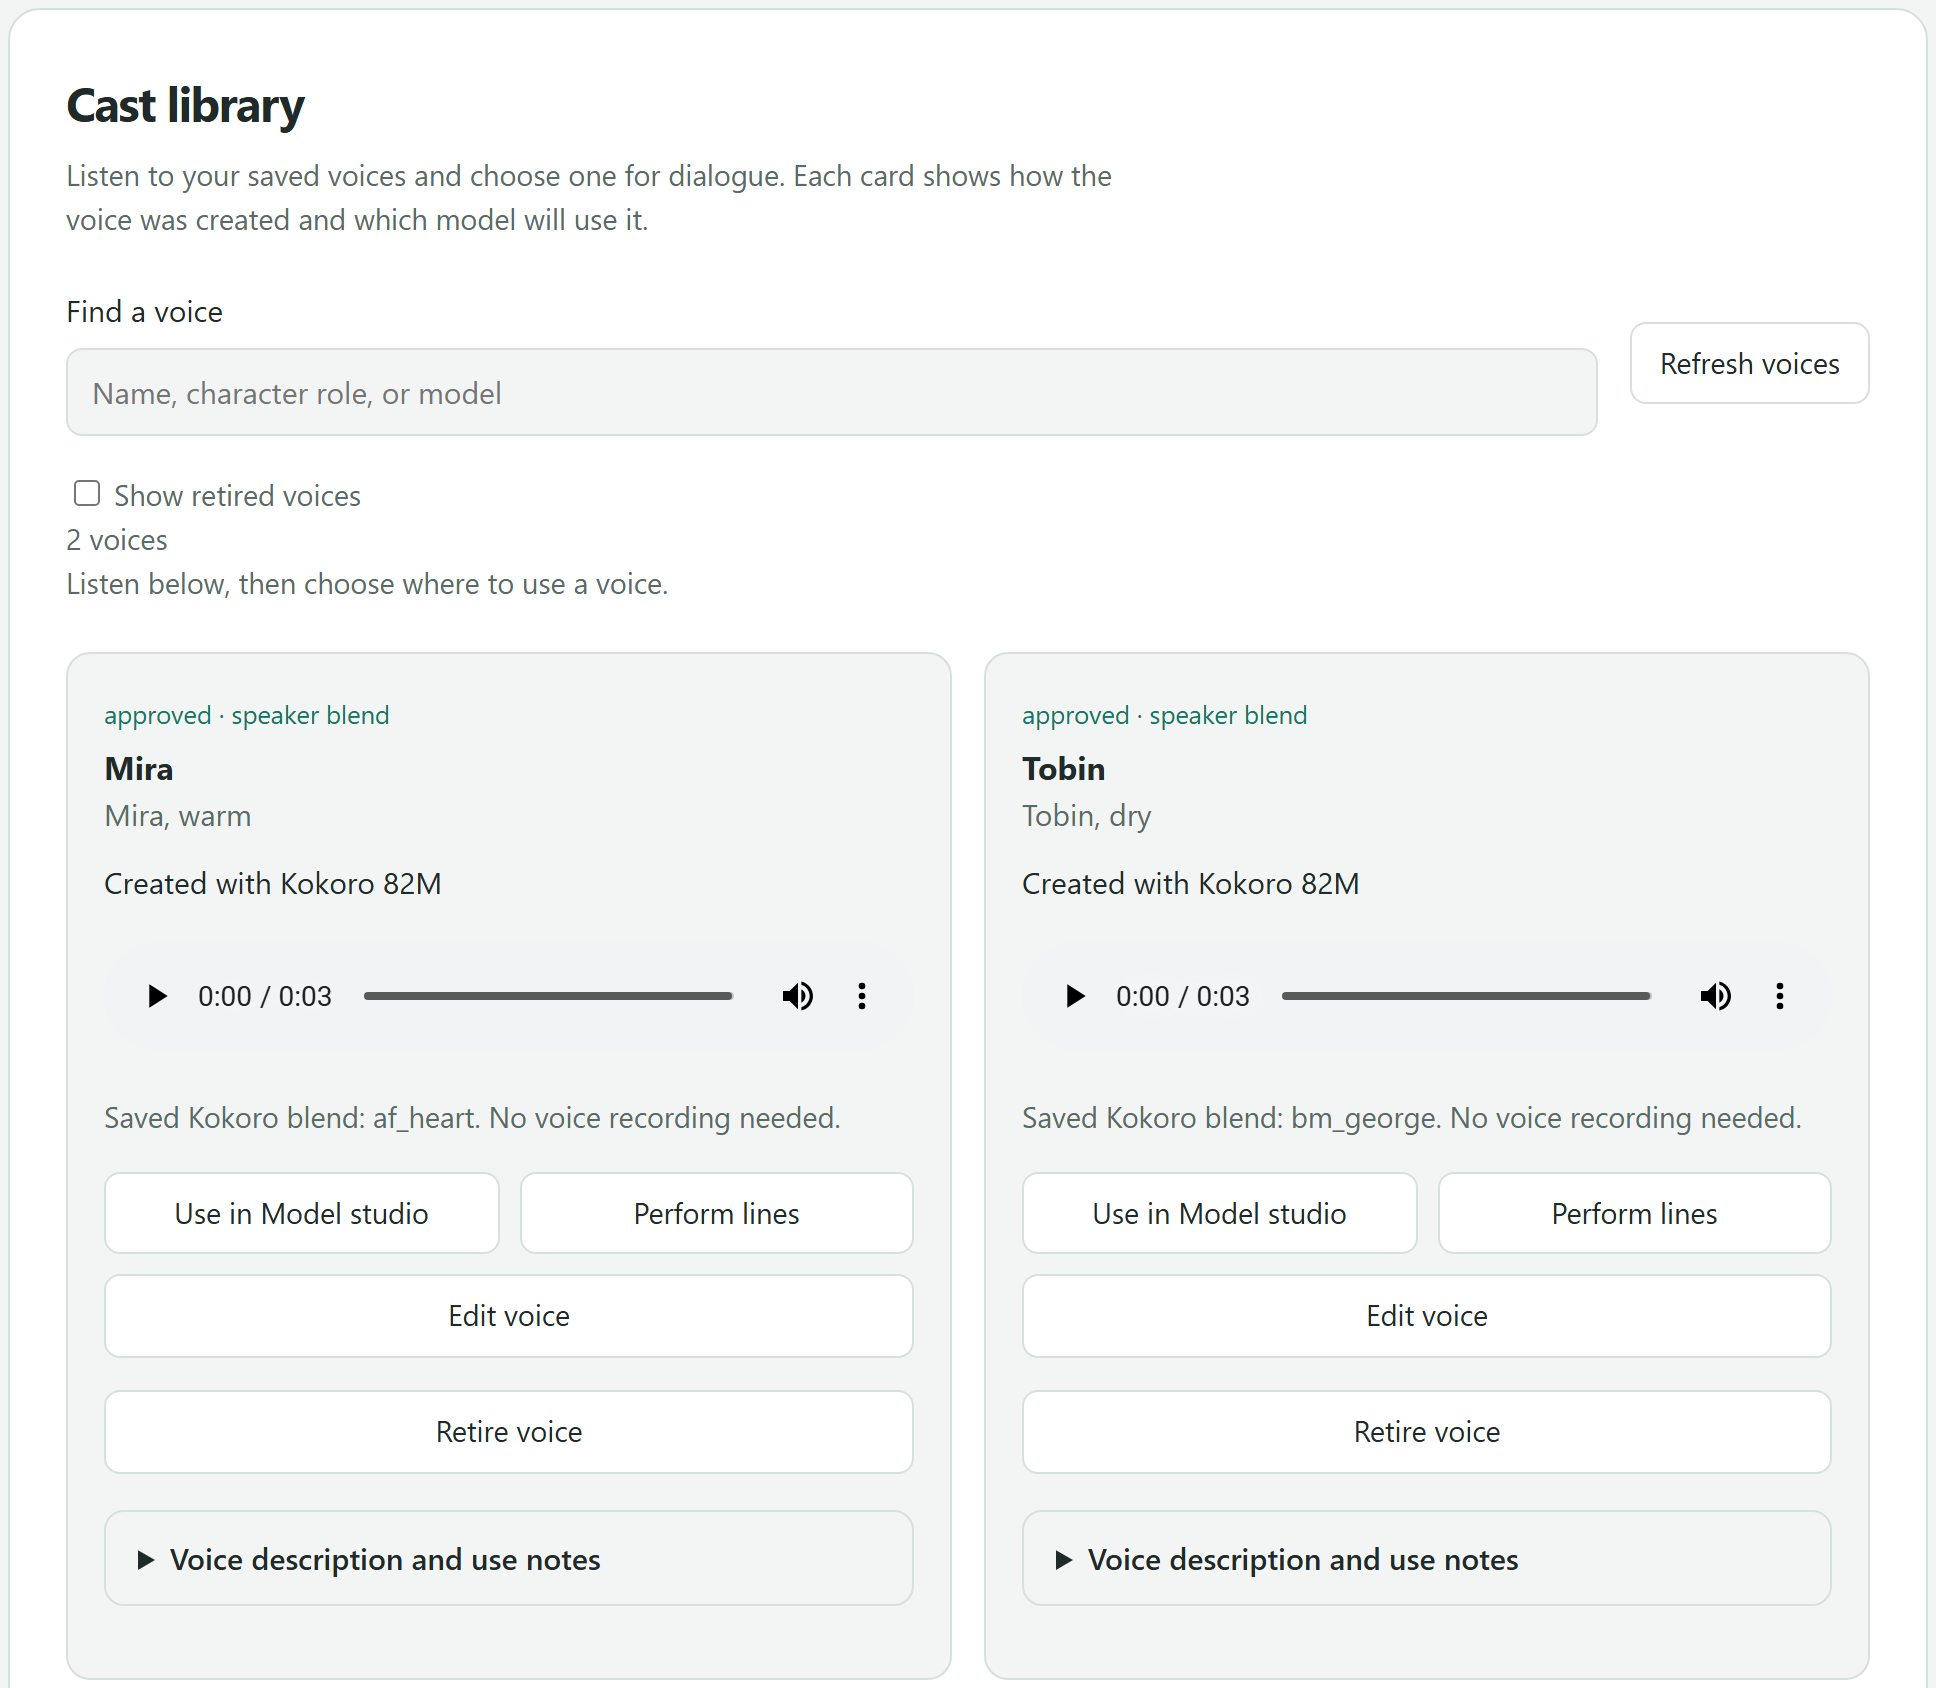
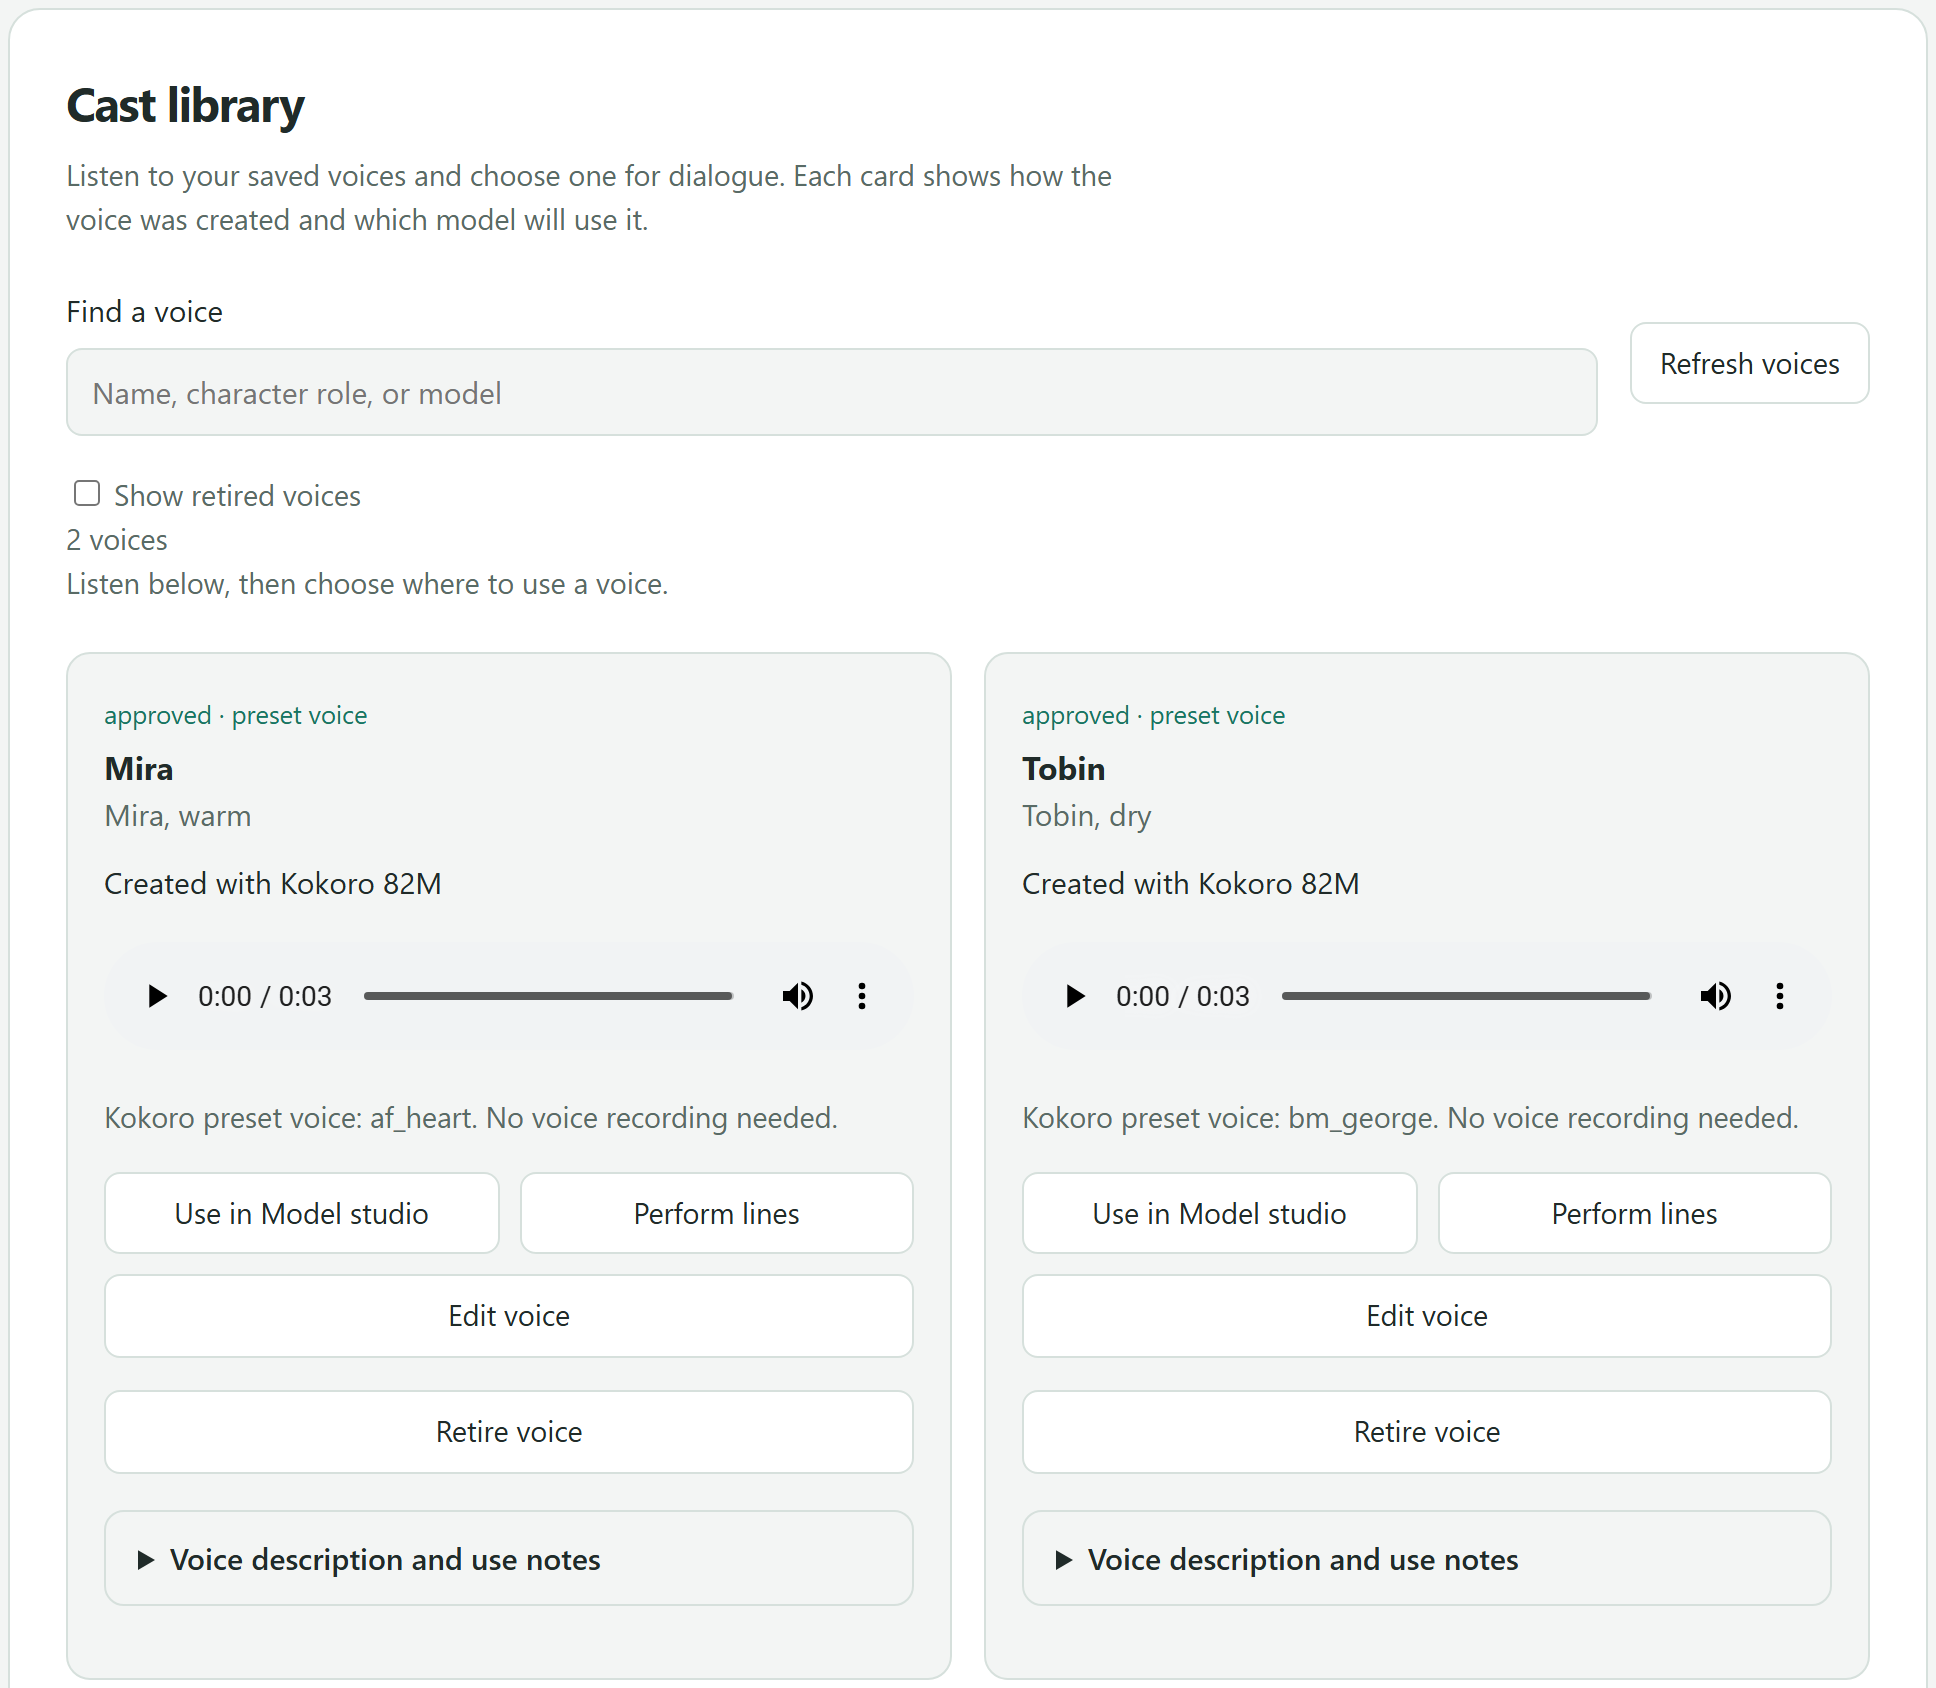
Open the README's look at the Lab with the whole path, animated
A silent animation, docs/images/lab-tour.gif (1.9 MB, 960 by 600, 88
seconds), shows a Lab fresh from setup going the whole way: Model
studio's first-run note installs Kokoro 82M (the GPU build, on the
development PC) and the studio says its first words; the Cast editor
makes Mira a voice from af_heart and Tobin one from a blend of bm_fable
and bm_george; Perform lines makes a take; and a four-line script,
pasted into Scenes, becomes a scene that is rendered as a batch, given
the newest takes and played. A caption says what each part is, and the
waits for the install and the model's first load are sped up.

It was recorded with the page driven in headless Edge by a script kept
out of the repository: the install and first words in one take, the
rest in a second take on the same Lab with a fresh library, joined.
Every frame's text was checked for a personal home folder. A version
with the clips' sound is kept out of the repository too, as
tools/check_repo.py refuses video and any file over 2 MB; it can be
added on GitHub when 0.3.0 is published.

The README's look section now has one introduction for the animation
and the pictures, and the pictures are taken again with the corrected
Cast cards (Mira's is a preset voice, made with Kokoro 82M).

diff --git a/README.md b/README.md
@@ -40,19 +40,26 @@ and the file's SHA-256. Like every file the Lab makes, the clip says inside it t
 
 ## A look at it
 
-The pictures below are the real page and the real service with Kokoro 82M speaking, made by
-[`tools/readme_shots.py`](tools/readme_shots.py) on a library of its own. Mira and Tobin are characters
-that exist only there, each with one of Kokoro's preset voices (`af_heart` and `bm_george`), so no
-person's recording was used or cloned. The waveforms, lengths and loudness readings are the model's.
+Everything below is the real page and the real service with Kokoro 82M speaking. Mira and Tobin are characters that
+exist only in a library made for it, and their voices are Kokoro's preset voices, so no person's recording was used or
+cloned. The waveforms, lengths and loudness readings are the model's.
+
+### The whole path
+
+![A Lab fresh from setup installs Kokoro 82M from Model studio and says its first words, gives two characters Kokoro voices (one a blend of two), performs a line, then imports a four-line script as a scene, renders it and plays it](docs/images/lab-tour.gif)
+
+A Lab fresh from setup, in a minute and a half: install a model, make a voice, perform a line, render a scene. The page
+was driven by a script, and the waits for the install and the model's first load are sped up. The pictures that follow
+are made by [`tools/readme_shots.py`](tools/readme_shots.py), with `af_heart` for Mira and `bm_george` for Tobin.
 
 ### Cast library
 
 ![The Cast library with two approved Kokoro voice cards, Mira and Tobin, each with its audition player and buttons](docs/images/cast-library.png)
 
-Every saved voice is a card that shows how it was made, which model will speak for it, a saved
-audition to play, and either the preset voices it uses or how many saved versions its voice recording
-has. A version of a recording never changes once saved, and keeps its transcript, origin and allowed use. Approving a voice records your
-decision to use it; it cannot prove that you have the right to.
+Every saved voice is a card that shows how it was made, which model will speak for it, a saved audition
+to play, and either the preset voices it uses or how many saved versions its voice recording has. A
+version of a recording never changes once saved, and keeps its transcript, origin and allowed use.
+Approving a voice records your decision to use it; it cannot prove that you have the right to.
 
 ### Perform lines
 
